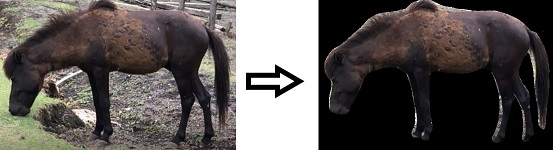
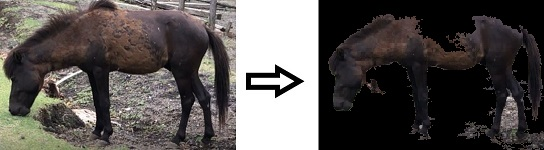
add description about non deep learning method and images

diff --git a/README.md b/README.md
@@ -1,10 +1,36 @@
 # segmentation-horse
+
+## 非深層学習ベース
+二値化・輪郭抽出による馬の領域抽出<br>
+トラックバーによって手動でパラメーターを設定
+
+<img src="./assets/desc.jpg" style="height:200px"></img><br>
+図１：非深層学習手法による出力結果比較
+
+### トラックバー説明
+- 画面上部に操作パラメーター、下部に生成されるマスクの図
+- HSVパラメーター以外にモードのパラメーターが存在
+- モードは二値化の上限値と下限値の設定の2種類
+- 二値化上限値設定モードがデフォルト
+- Enterキーを押すとマスクを確定
+
+【注意】
+マスクは被写体が白、それ以外は黒になるように生成する必要
+
+<img src="./assets/trackbar.jpg" style="height:400px"></img><br>
+図２：トラックバー
+
+
+
+## 深層学習ベース
+
 semantic segmentationによる馬の領域抽出
 
 PyTorch Hubで配布されている**DEEPLABV3**を使用。
 semantic segmentationを用いてマスクを生成して馬の領域の抽出を行う。
 
-<img src="./assets/desc.jpg" style="height:200px"></img>
+<img src="./assets/desc2.jpg" style="height:200px"></img>
+図３：深層学習手法による出力結果比較
 
 ## 仮想環境
 ```
